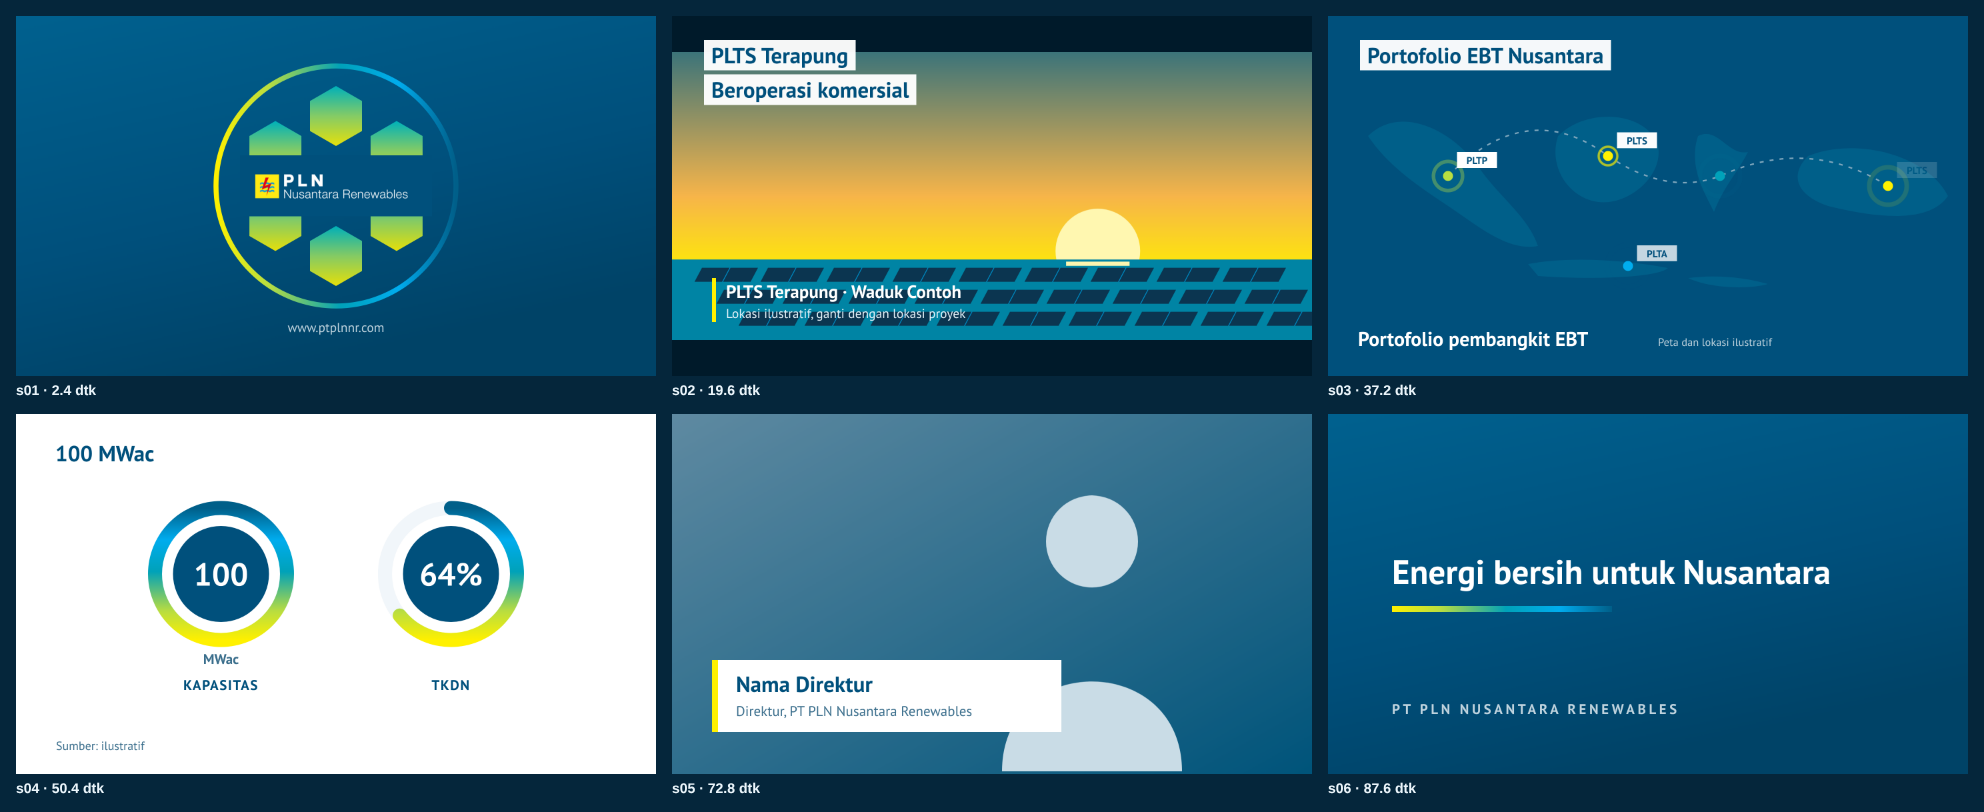
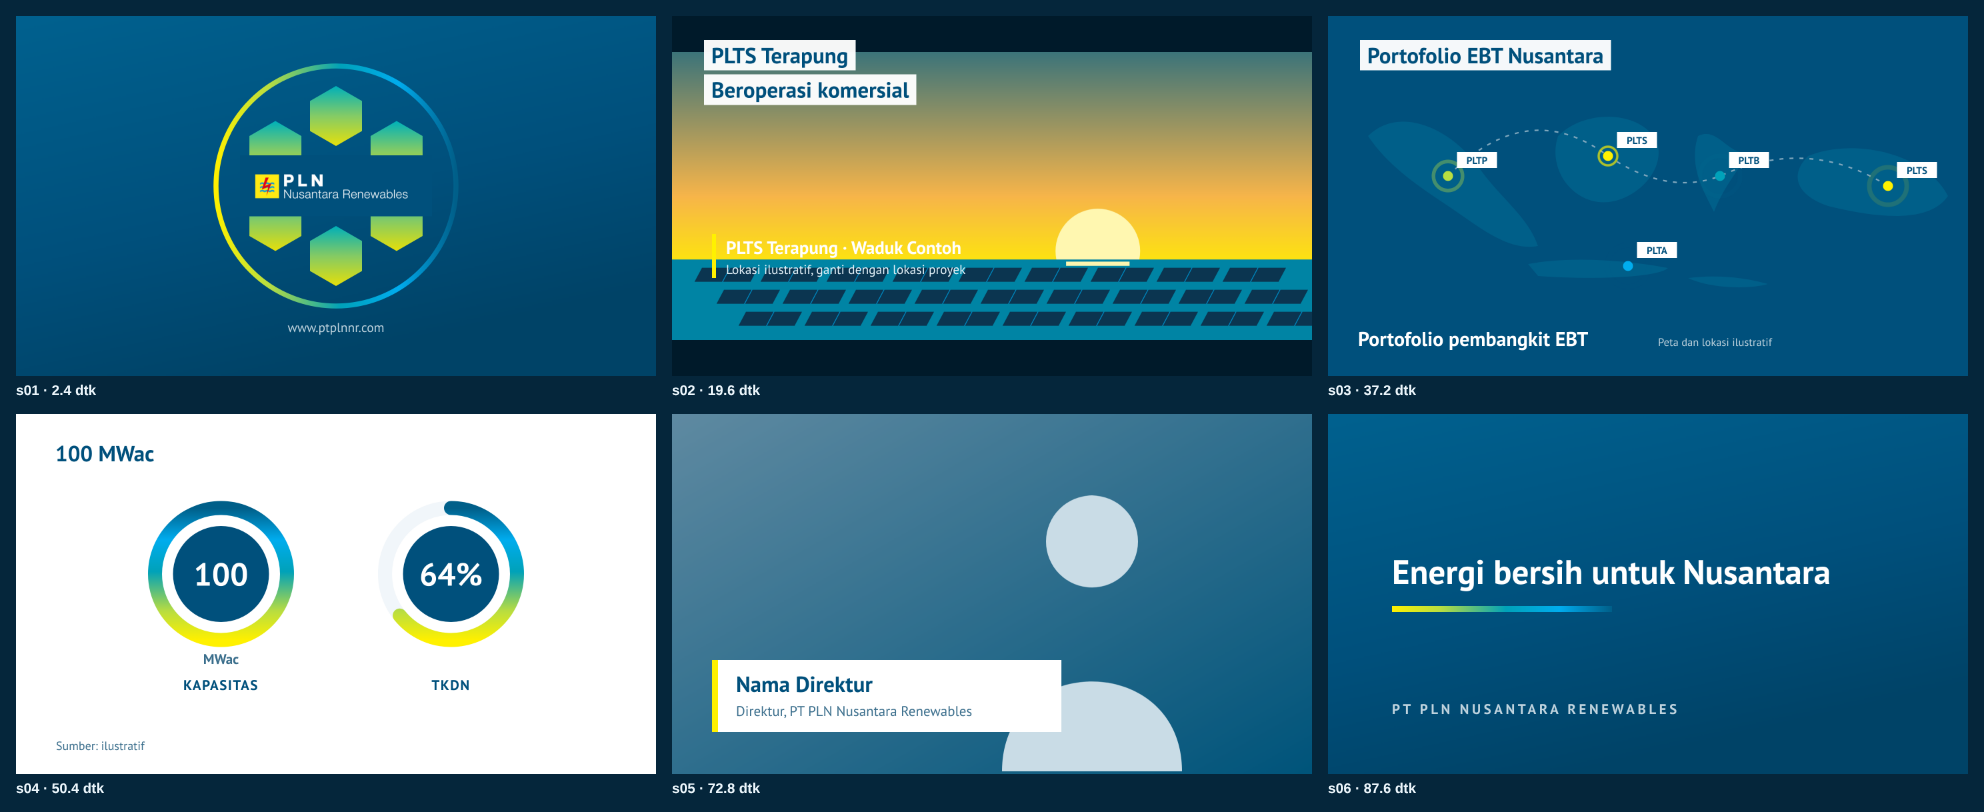
Hold entrance animations in renders and keep location label clear of captions
- runtime: entrance animations play once and hold instead of looping like gallery previews
- golden-hour location label raised above the caption zone
- regenerate COD example, gallery and skill bundle

Claude-Session: https://claude.ai/code/session_0146VNwL9wkhvz5nyYxxoYe6

diff --git a/pln-nr-motion-gallery/examples/cod-plts-terapung/animatic.html b/pln-nr-motion-gallery/examples/cod-plts-terapung/animatic.html
@@ -1385,7 +1385,8 @@ ${d.name ? '' : X(600, 340, 10, 'FOOTAGE PLACEHOLDER', '#E6F4FB', 700, 'text-anc
     if (!d) return v;
     if (!d.location) return v.replace(box, '');
     const s = fitSize(d.location, 520, 18, 14);
-    return v.replace(box, `<g class="a-up" ${d0(1)}><rect x="40" y="262" width="4" height="44" fill="${C.yellow}"/>${X(54, 282, s, d.location, '#fff')}${d.sublabel ? X(54, 302, 13, d.sublabel, '#E6F4FB', 400) : ''}</g>`);
+    // posisi dinaikkan agar tidak bertabrakan dengan zona caption di bawah
+    return v.replace(box, `<g class="a-up" ${d0(1)}><rect x="40" y="218" width="4" height="44" fill="${C.yellow}"/>${X(54, 238, s, d.location, '#fff')}${d.sublabel ? X(54, 258, 13, d.sublabel, '#E6F4FB', 400) : ''}</g>`);
   } };
   /* Travel Poster: nama lokasi dari data (field location); tanpa itu memakai judul contoh. */
   const tpBase = S.find(s => s.id === 'travel-poster').svg;
@@ -1546,6 +1547,8 @@ ${d.name ? '' : X(600, 340, 10, 'FOOTAGE PLACEHOLDER', '#E6F4FB', 700, 'text-anc
   const EASE = { standard: bezier(.4, 0, .2, 1), entrance: bezier(0, 0, .2, 1), emphasis: bezier(.16, 1, .3, 1) };
   const clamp = (v, a = 0, b = 1) => Math.max(a, Math.min(b, v));
   /* Gaya yang bagian bawahnya sudah terisi (lower third, judul peta, letterbox): caption pindah ke atas. */
+  /* Animasi masuk → titik tahan (fraksi durasi) tempat elemen sudah tampil penuh. Animasi kontinu (putar, alir, apung) tidak ditahan. */
+  const ENTRANCE = { aUp: .85, aPop: .85, aDraw: .85, aGrow: .85, aWipe: .85, aKin: .8, aArc: .95, aPush: .85, aLight: .85, aSweep: .95, aLid: .6 };
   /* Gaya yang teksnya sudah tampil besar di dalam art: panel teks bertumpuk tidak mengulanginya. */
   const DISPLAY_TEXT = new Set(['kinetic-type', 'navy-statement', 'energy-sweep', 'vertical-reels']);
   const CAP_TOP = new Set(['lower-third', 'nusantara-map', 'travel-poster', 'wayang-silhouette', 'split-screen', 'hydro-flow', 'geothermal-section']);
@@ -1595,7 +1598,14 @@ ${d.name ? '' : X(600, 340, 10, 'FOOTAGE PLACEHOLDER', '#E6F4FB', 700, 'text-anc
     let capsOn = opts.captions !== false;
 
     function setLocal(ly, local) {
-      ly.el.getAnimations({ subtree: true }).forEach(a => { a.pause(); a.currentTime = Math.max(0, local * 1000); });
+      ly.el.getAnimations({ subtree: true }).forEach(a => {
+        a.pause();
+        let ms = Math.max(0, local * 1000);
+        // Animasi masuk di galeri berulang untuk pratinjau; di video diputar sekali lalu ditahan pada keadaan tampil.
+        const hold = ENTRANCE[a.animationName];
+        if (hold) { const tm = a.effect.getTiming(); const dur = typeof tm.duration === 'number' ? tm.duration : 0; ms = Math.min(ms, (tm.delay || 0) + dur * hold); }
+        a.currentTime = ms;
+      });
       ly.svgs.forEach(s => { try { s.pauseAnimations(); s.setCurrentTime(Math.max(0, local)); } catch (e) {} });
       ly.el.querySelectorAll('[data-count]').forEach(el => {
         const n = +el.dataset.count, dec = +el.dataset.dec || 0, k = EASE.emphasis(clamp((local - .35) / .9));

diff --git a/skills/pln-nr-explainer-studio/engine/runtime.js b/skills/pln-nr-explainer-studio/engine/runtime.js
@@ -16,6 +16,8 @@
   const EASE = { standard: bezier(.4, 0, .2, 1), entrance: bezier(0, 0, .2, 1), emphasis: bezier(.16, 1, .3, 1) };
   const clamp = (v, a = 0, b = 1) => Math.max(a, Math.min(b, v));
   /* Gaya yang bagian bawahnya sudah terisi (lower third, judul peta, letterbox): caption pindah ke atas. */
+  /* Animasi masuk → titik tahan (fraksi durasi) tempat elemen sudah tampil penuh. Animasi kontinu (putar, alir, apung) tidak ditahan. */
+  const ENTRANCE = { aUp: .85, aPop: .85, aDraw: .85, aGrow: .85, aWipe: .85, aKin: .8, aArc: .95, aPush: .85, aLight: .85, aSweep: .95, aLid: .6 };
   /* Gaya yang teksnya sudah tampil besar di dalam art: panel teks bertumpuk tidak mengulanginya. */
   const DISPLAY_TEXT = new Set(['kinetic-type', 'navy-statement', 'energy-sweep', 'vertical-reels']);
   const CAP_TOP = new Set(['lower-third', 'nusantara-map', 'travel-poster', 'wayang-silhouette', 'split-screen', 'hydro-flow', 'geothermal-section']);
@@ -65,7 +67,14 @@
     let capsOn = opts.captions !== false;
 
     function setLocal(ly, local) {
-      ly.el.getAnimations({ subtree: true }).forEach(a => { a.pause(); a.currentTime = Math.max(0, local * 1000); });
+      ly.el.getAnimations({ subtree: true }).forEach(a => {
+        a.pause();
+        let ms = Math.max(0, local * 1000);
+        // Animasi masuk di galeri berulang untuk pratinjau; di video diputar sekali lalu ditahan pada keadaan tampil.
+        const hold = ENTRANCE[a.animationName];
+        if (hold) { const tm = a.effect.getTiming(); const dur = typeof tm.duration === 'number' ? tm.duration : 0; ms = Math.min(ms, (tm.delay || 0) + dur * hold); }
+        a.currentTime = ms;
+      });
       ly.svgs.forEach(s => { try { s.pauseAnimations(); s.setCurrentTime(Math.max(0, local)); } catch (e) {} });
       ly.el.querySelectorAll('[data-count]').forEach(el => {
         const n = +el.dataset.count, dec = +el.dataset.dec || 0, k = EASE.emphasis(clamp((local - .35) / .9));

diff --git a/pln-nr-motion-gallery/dist/pln-nr-motion-gallery.html b/pln-nr-motion-gallery/dist/pln-nr-motion-gallery.html
@@ -1951,7 +1951,8 @@ ${d.name ? '' : X(600, 340, 10, 'FOOTAGE PLACEHOLDER', '#E6F4FB', 700, 'text-anc
     if (!d) return v;
     if (!d.location) return v.replace(box, '');
     const s = fitSize(d.location, 520, 18, 14);
-    return v.replace(box, `<g class="a-up" ${d0(1)}><rect x="40" y="262" width="4" height="44" fill="${C.yellow}"/>${X(54, 282, s, d.location, '#fff')}${d.sublabel ? X(54, 302, 13, d.sublabel, '#E6F4FB', 400) : ''}</g>`);
+    // posisi dinaikkan agar tidak bertabrakan dengan zona caption di bawah
+    return v.replace(box, `<g class="a-up" ${d0(1)}><rect x="40" y="218" width="4" height="44" fill="${C.yellow}"/>${X(54, 238, s, d.location, '#fff')}${d.sublabel ? X(54, 258, 13, d.sublabel, '#E6F4FB', 400) : ''}</g>`);
   } };
   /* Travel Poster: nama lokasi dari data (field location); tanpa itu memakai judul contoh. */
   const tpBase = S.find(s => s.id === 'travel-poster').svg;

diff --git a/pln-nr-motion-gallery/index.html b/pln-nr-motion-gallery/index.html
@@ -1958,7 +1958,8 @@ ${d.name ? '' : X(600, 340, 10, 'FOOTAGE PLACEHOLDER', '#E6F4FB', 700, 'text-anc
     if (!d) return v;
     if (!d.location) return v.replace(box, '');
     const s = fitSize(d.location, 520, 18, 14);
-    return v.replace(box, `<g class="a-up" ${d0(1)}><rect x="40" y="262" width="4" height="44" fill="${C.yellow}"/>${X(54, 282, s, d.location, '#fff')}${d.sublabel ? X(54, 302, 13, d.sublabel, '#E6F4FB', 400) : ''}</g>`);
+    // posisi dinaikkan agar tidak bertabrakan dengan zona caption di bawah
+    return v.replace(box, `<g class="a-up" ${d0(1)}><rect x="40" y="218" width="4" height="44" fill="${C.yellow}"/>${X(54, 238, s, d.location, '#fff')}${d.sublabel ? X(54, 258, 13, d.sublabel, '#E6F4FB', 400) : ''}</g>`);
   } };
   /* Travel Poster: nama lokasi dari data (field location); tanpa itu memakai judul contoh. */
   const tpBase = S.find(s => s.id === 'travel-poster').svg;

diff --git a/pln-nr-motion-gallery/src/styles-data.js b/pln-nr-motion-gallery/src/styles-data.js
@@ -1255,7 +1255,8 @@ ${d.name ? '' : X(600, 340, 10, 'FOOTAGE PLACEHOLDER', '#E6F4FB', 700, 'text-anc
     if (!d) return v;
     if (!d.location) return v.replace(box, '');
     const s = fitSize(d.location, 520, 18, 14);
-    return v.replace(box, `<g class="a-up" ${d0(1)}><rect x="40" y="262" width="4" height="44" fill="${C.yellow}"/>${X(54, 282, s, d.location, '#fff')}${d.sublabel ? X(54, 302, 13, d.sublabel, '#E6F4FB', 400) : ''}</g>`);
+    // posisi dinaikkan agar tidak bertabrakan dengan zona caption di bawah
+    return v.replace(box, `<g class="a-up" ${d0(1)}><rect x="40" y="218" width="4" height="44" fill="${C.yellow}"/>${X(54, 238, s, d.location, '#fff')}${d.sublabel ? X(54, 258, 13, d.sublabel, '#E6F4FB', 400) : ''}</g>`);
   } };
   /* Travel Poster: nama lokasi dari data (field location); tanpa itu memakai judul contoh. */
   const tpBase = S.find(s => s.id === 'travel-poster').svg;

diff --git a/skills/pln-nr-explainer-studio/assets/styles-data.js b/skills/pln-nr-explainer-studio/assets/styles-data.js
@@ -1255,7 +1255,8 @@ ${d.name ? '' : X(600, 340, 10, 'FOOTAGE PLACEHOLDER', '#E6F4FB', 700, 'text-anc
     if (!d) return v;
     if (!d.location) return v.replace(box, '');
     const s = fitSize(d.location, 520, 18, 14);
-    return v.replace(box, `<g class="a-up" ${d0(1)}><rect x="40" y="262" width="4" height="44" fill="${C.yellow}"/>${X(54, 282, s, d.location, '#fff')}${d.sublabel ? X(54, 302, 13, d.sublabel, '#E6F4FB', 400) : ''}</g>`);
+    // posisi dinaikkan agar tidak bertabrakan dengan zona caption di bawah
+    return v.replace(box, `<g class="a-up" ${d0(1)}><rect x="40" y="218" width="4" height="44" fill="${C.yellow}"/>${X(54, 238, s, d.location, '#fff')}${d.sublabel ? X(54, 258, 13, d.sublabel, '#E6F4FB', 400) : ''}</g>`);
   } };
   /* Travel Poster: nama lokasi dari data (field location); tanpa itu memakai judul contoh. */
   const tpBase = S.find(s => s.id === 'travel-poster').svg;
